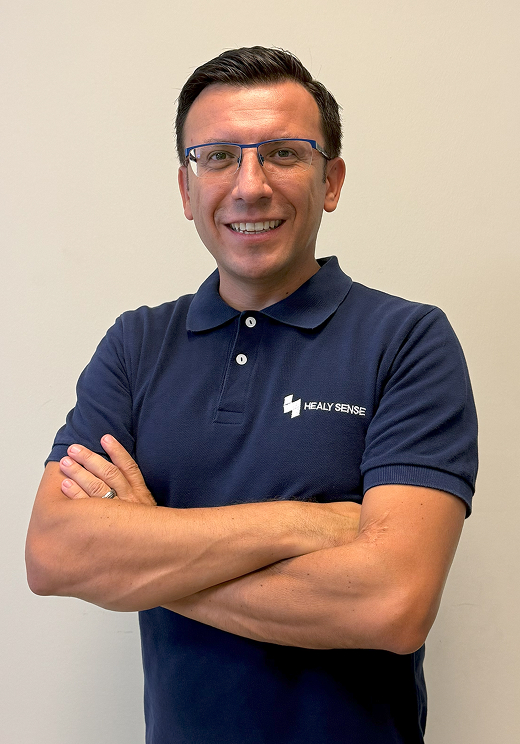
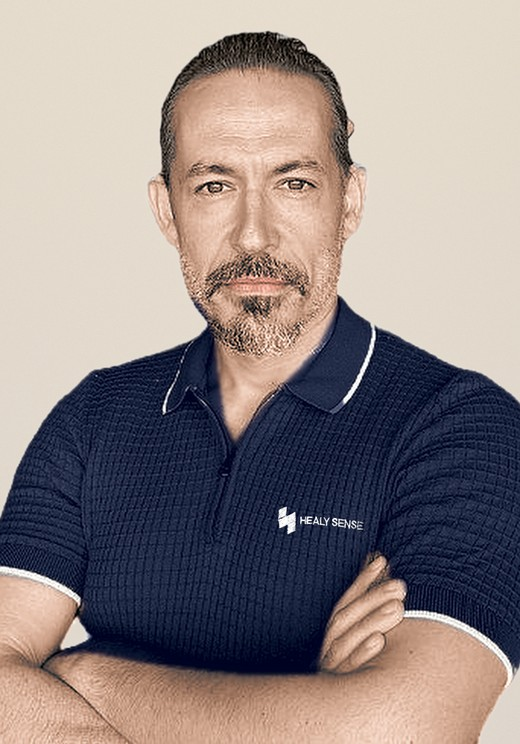
Add CEO/CSO photos to team carousel, update testimonials and publications

diff --git a/components/Team.tsx b/components/Team.tsx
@@ -1,8 +1,26 @@
+'use client';
 import AnimatedContainer from '@/components/AnimatedContainer';
+import useEmblaCarousel from 'embla-carousel-react';
 import Image from 'next/image';
 import Link from 'next/link';
+import { useCallback } from 'react';
 
 const Team = () => {
+    const [emblaRef, emblaApi] = useEmblaCarousel({ align: 'start', containScroll: 'trimSnaps' });
+
+    // wrap around at the ends, like the News and Showreel sliders
+    const handlePrev = useCallback(() => {
+        if (!emblaApi) return;
+        if (emblaApi.canScrollPrev()) emblaApi.scrollPrev();
+        else emblaApi.scrollTo(emblaApi.scrollSnapList().length - 1);
+    }, [emblaApi]);
+
+    const handleNext = useCallback(() => {
+        if (!emblaApi) return;
+        if (emblaApi.canScrollNext()) emblaApi.scrollNext();
+        else emblaApi.scrollTo(0);
+    }, [emblaApi]);
+
     return (
         <AnimatedContainer className="mx-auto flex w-full max-w-[1300px] flex-col items-center justify-start gap-16 self-stretch px-12 py-32">
             <div className="flex w-full flex-col items-center justify-start gap-4">
@@ -57,7 +75,7 @@ const Team = () => {
 
             <div className="mt-16 w-full">
                 <div className="flex flex-col items-start gap-8 2xl:flex-row 2xl:gap-16">
-                    <div className="flex-1 2xl:max-w-md">
+                    <div className="mx-auto w-full max-w-3xl 2xl:mx-0 2xl:max-w-md 2xl:flex-shrink-0">
                         <div className="text-center 2xl:text-left">
                             <span className="text-lg font-normal leading-normal text-surface-700 lg:text-2xl">Dedicated experts from different fields teamed up and created team. </span>
                             <br />
@@ -73,38 +91,50 @@ const Team = () => {
                             <br />
                             <span className="text-lg font-normal leading-normal text-surface-700 lg:text-2xl">Join our journey to redefine medical analysis and meet our team.</span>
                         </div>
+                        <div className="mt-10 flex items-center justify-center gap-6 2xl:justify-start">
+                            <button onClick={handlePrev} aria-label="Previous team member" className="h-12 w-[5.5rem] rounded-full border-0 border-white/12 shadow-stroke transition-transform duration-200 hover:bg-surface-100/20">
+                                <i className="pi pi-arrow-left text-xl"></i>
+                            </button>
+                            <button onClick={handleNext} aria-label="Next team member" className="h-12 w-[5.5rem] rounded-full border-0 border-white/12 shadow-stroke transition-transform duration-200 hover:bg-surface-100/20">
+                                <i className="pi pi-arrow-right text-xl"></i>
+                            </button>
+                        </div>
                     </div>
 
-                    <div className="w-full flex-1">
-                        <div className="flex flex-wrap justify-center gap-6 lg:flex-nowrap lg:gap-12">
+                    <div className="-my-6 w-full min-w-0 flex-1 overflow-hidden py-6" ref={emblaRef}>
+                        <div className="flex gap-6 lg:gap-12">
                             {startupTeamData.map((item, index) => (
-                                <AnimatedContainer key={index} delay={200 * index} className="group relative h-[300px] w-[220px] flex-shrink-0 overflow-hidden rounded-[28px] shadow-blue-card sm:h-[372px] sm:w-[260px]">
+                                <div key={index} className="group relative h-[300px] w-[220px] flex-shrink-0 overflow-hidden rounded-[28px] shadow-blue-card sm:h-[372px] sm:w-[260px]">
                                     <Image className="object-cover" fill sizes="(max-width: 640px) 220px, 260px" src={item.image} alt={item.name} />
                                     <div className="absolute inset-0 flex flex-col items-start justify-end gap-4 overflow-hidden rounded-[28px] bg-gradient-to-b from-black/0 to-black/70 p-8 opacity-0 transition-all group-hover:opacity-100">
                                         <div className="inline-flex items-start justify-start gap-[9.14px]">
                                             <Link
-                                                href={item.facebook}
+                                                href={item.linkedin}
                                                 target="_blank"
                                                 rel="noopener noreferrer"
+                                                aria-label={`${item.name} on LinkedIn`}
                                                 className="backdrop-blur-xs flex w-14 items-center justify-center gap-2 overflow-hidden rounded-full bg-white/5 px-4 py-2 outline outline-[0.50px] outline-offset-[-0.50px] outline-white/10"
                                             >
                                                 <i className="pi pi-linkedin text-base text-white"></i>
                                             </Link>
-                                            <Link
-                                                href={item.twitter}
-                                                target="_blank"
-                                                rel="noopener noreferrer"
-                                                className="backdrop-blur-xs flex w-14 items-center justify-center gap-2 overflow-hidden rounded-full bg-white/5 px-4 py-2 outline outline-[0.50px] outline-offset-[-0.50px] outline-white/10"
-                                            >
-                                                <i className="pi pi-twitter text-base text-white"></i>
-                                            </Link>
+                                            {item.twitter && (
+                                                <Link
+                                                    href={item.twitter}
+                                                    target="_blank"
+                                                    rel="noopener noreferrer"
+                                                    aria-label={`${item.name} on X`}
+                                                    className="backdrop-blur-xs flex w-14 items-center justify-center gap-2 overflow-hidden rounded-full bg-white/5 px-4 py-2 outline outline-[0.50px] outline-offset-[-0.50px] outline-white/10"
+                                                >
+                                                    <i className="pi pi-twitter text-base text-white"></i>
+                                                </Link>
+                                            )}
                                         </div>
                                         <div className="flex flex-col items-start justify-start gap-1 self-stretch">
                                             <div className="justify-start self-stretch text-2xl font-semibold leading-normal text-white">{item.name}</div>
                                             <div className="justify-start self-stretch text-lg font-normal leading-normal text-white">{item.role}</div>
                                         </div>
                                     </div>
-                                </AnimatedContainer>
+                                </div>
                             ))}
                         </div>
                     </div>
@@ -116,29 +146,47 @@ const Team = () => {
 
 export default Team;
 
-const startupTeamData = [
+type TeamMember = {
+    image: string;
+    name: string;
+    role: string;
+    linkedin: string;
+    twitter?: string;
+};
+
+const startupTeamData: TeamMember[] = [
     {
         image: '/images/team-1.jpg',
-        name: 'Serhat Tozburun, PhD',
-        role: 'Founder',
-        twitter: 'https://x.com/SerhatTozburun',
-        facebook: 'https://www.linkedin.com/in/serhat-tozburun-39627946/',
-        github: 'x'
+        name: 'Çağatay Çivici',
+        role: 'CEO & Co-Founder',
+        twitter: 'https://x.com/cagataycivici',
+        linkedin: 'https://www.linkedin.com/in/%C3%A7a%C4%9Fatay-%C3%A7ivici-1579b0129/'
     },
     {
         image: '/images/team-2.jpg',
-        name: 'Semih Burhan',
-        role: 'COO & Data Scientist',
-        twitter: 'https://x.com/smhburhan',
-        facebook: ' https://www.linkedin.com/in/smhhburhan/',
-        github: 'x'
+        name: 'Canan Altay, MD',
+        role: 'CSO',
+        linkedin: 'https://www.linkedin.com/in/canan-altay-228b6467/'
     },
     {
         image: '/images/team-3.jpg',
+        name: 'Serhat Tozburun, PhD',
+        role: 'Co-Founder & CTO',
+        twitter: 'https://x.com/SerhatTozburun',
+        linkedin: 'https://www.linkedin.com/in/serhat-tozburun-39627946/'
+    },
+    {
+        image: '/images/team-4.jpg',
+        name: 'Semih Burhan',
+        role: 'COO & Data Scientist',
+        twitter: 'https://x.com/smhburhan',
+        linkedin: 'https://www.linkedin.com/in/smhhburhan/'
+    },
+    {
+        image: '/images/team-5.jpg',
         name: 'Berkay Durmuş',
         role: 'AI Engineer',
         twitter: 'https://x.com/bdurrmus',
-        facebook: 'https://www.linkedin.com/in/berkayahmetdurmus/',
-        github: 'x'
+        linkedin: 'https://www.linkedin.com/in/berkayahmetdurmus/'
     }
 ];

diff --git a/components/Publications.tsx b/components/Publications.tsx
@@ -3,7 +3,7 @@ import AnimatedContainer from '@/components/AnimatedContainer';
 import Link from 'next/link';
 
 const Publications = () => {
-    const publications = [
+    const publications: { number: number; citation: string; link?: string }[] = [
         {
             number: 1,
             citation:
@@ -21,6 +21,20 @@ const Publications = () => {
             citation:
                 'Giray Nuri Mavis, Berkay Ahmet Durmus, Semih Burhan, Dilek Nazli, Gunes Ozhan, and Serhat Tozburun "Conditional generative adversarial network-based image enhancement model for confocal microscopy", Proc. SPIE 13865, Computational Optical Imaging and Artificial Intelligence in Biomedical Sciences III, 138650C (5 March 2026); https://doi.org/10.1117/12.3079178',
             link: 'https://doi.org/10.1117/12.3079178'
+        },
+        {
+            number: 4,
+            citation: 'C. Arikan, O.D. Koygun, S.A. Kurnaz, C. Altay, H. Ellidokuz, and F. Cosgun "Diagnostic Performance of a Deep Learning Model for Acute Appendicitis on Abdominal CT in the Emergency Department", Sci. Rep. (Under Revision)'
+        },
+        {
+            number: 5,
+            citation:
+                'M.E. Oguzturk, B.N. Yildirim, C. Altay, I. Basara-Akin, F. Barlik, and A. Balci "The Relationship of Abdominal Aortic Calcification Volume with Age, Gender, Hepatic Steatosis, and Subcutaneous Adipose Tissue Thickness", 30th Annual Meeting of the Turkish Magnetic Resonance Society 4231 (15-18 April 2026)'
+        },
+        {
+            number: 6,
+            citation:
+                'C. Arikan, Ö.D. Koygun, S.A. Kurnaz, C. Altay, B.M. Sonmez, H. Ellidokuz, and F. Cosgun "Validation of an AI-Based Model (APPENDIXPERT) for the Detection of Acute Appendicitis on Abdominal CT in the Emergency Department", 13th International Critical Care and Emergency Medicine Congress (23-26 April 2026)'
         }
     ];
 
@@ -77,18 +91,25 @@ const Publications = () => {
                 <AnimatedContainer delay={200}>
                     <div className="relative max-w-4xl overflow-hidden rounded-[28px] bg-gradient-to-b from-violet-600 to-violet-500 p-6 shadow-blue-card sm:p-8">
                         <div className="flex flex-col gap-5">
-                            {publications.map((pub, index) => (
-                                <Link
-                                    key={pub.number}
-                                    href={pub.link}
-                                    target="_blank"
-                                    rel="noopener noreferrer"
-                                    className={`group flex gap-3 transition-opacity hover:opacity-80 ${index !== publications.length - 1 ? 'border-b border-white/10 pb-5' : ''}`}
-                                >
-                                    <span className="shrink-0 font-semibold text-white">{pub.number}.</span>
-                                    <p className="text-sm leading-relaxed text-white/80 sm:text-base">{pub.citation}</p>
-                                </Link>
-                            ))}
+                            {publications.map((pub, index) => {
+                                const className = `group flex gap-3 ${index !== publications.length - 1 ? 'border-b border-white/10 pb-5' : ''}`;
+                                const content = (
+                                    <>
+                                        <span className="shrink-0 font-semibold text-white">{pub.number}.</span>
+                                        <p className="text-sm leading-relaxed text-white/80 sm:text-base">{pub.citation}</p>
+                                    </>
+                                );
+                                // entries without a public link yet (under revision / congress abstracts) are plain text
+                                return pub.link ? (
+                                    <Link key={pub.number} href={pub.link} target="_blank" rel="noopener noreferrer" className={`${className} transition-opacity hover:opacity-80`}>
+                                        {content}
+                                    </Link>
+                                ) : (
+                                    <div key={pub.number} className={className}>
+                                        {content}
+                                    </div>
+                                );
+                            })}
                         </div>
                     </div>
                 </AnimatedContainer>

diff --git a/components/Testimonials.tsx b/components/Testimonials.tsx
@@ -11,10 +11,10 @@ const Testimonials = () => {
             avatar: '/images/avatar-canan.jpg'
         },
         {
-            quote: "What excites me most about Healysense is its potential to transform healthcare at scale. It's not just another digital tool, it's a sustainable, data-driven solution built for real impact.",
-            name: 'Cagatay Civici',
-            role: 'Investor',
-            avatar: '/images/avatar-cagatay.jpg'
+            quote: 'In abdominal imaging, every minute and every detail counts. Healysense flags critical findings early and keeps my reading workflow organized, so I can report with greater confidence even on the busiest shifts.',
+            name: 'Işıl Başara Akın, MD',
+            role: 'Radiologist',
+            avatar: '/images/avatar-isil.jpg'
         },
         {
             quote: 'Healysense provides an invaluable layer of decision support. Its ability to process complex clinical data and highlight what truly matters empowers me to deliver more precise and personalized care.',
@@ -25,7 +25,7 @@ const Testimonials = () => {
         {
             quote: 'We created Healysense with a simple vision: to empower doctors and healthcare providers through hybrid AI solutions. Seeing it now improving patient outcomes and saving time for experts is the best validation of that mission.',
             name: 'Serhat Tozburun, PhD',
-            role: 'Founder',
+            role: 'Co-Founder',
             avatar: '/images/avatar-serhat.jpg'
         },
         {
